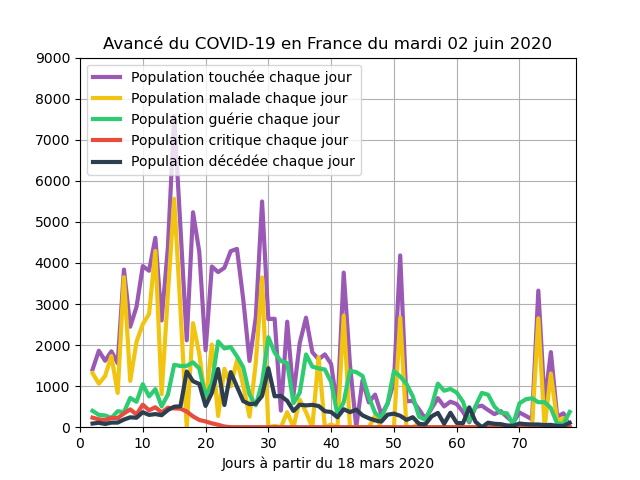
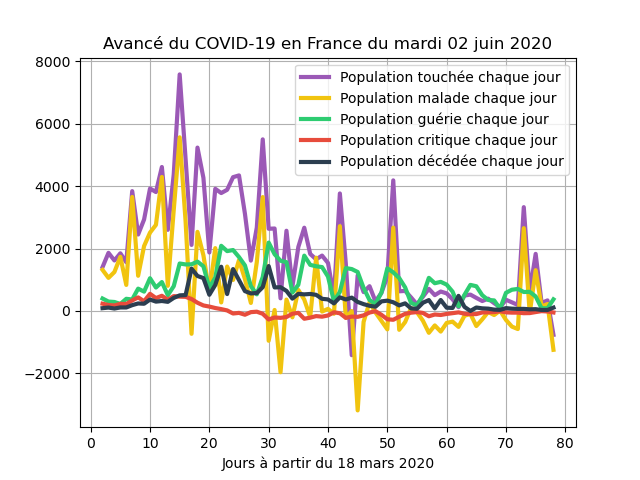
update graph

diff --git a/main.py b/main.py
@@ -44,18 +44,9 @@ def makeTabOfData():
                 tabActiveCases.append(int(row[6].replace(".", "")))
                 tabCritical.append(int(row[7].replace(".", "")))
                 tabNewRecovered.append(int(row[8].replace(".", "")))
-                if (int(row[9].replace(".", "")) < 0):
-                    tabNewActive.append(0)
-                else:
-                    tabNewActive.append(int(row[9].replace(".", "")))
-                if (int(row[10].replace(".", "")) < 0):
-                    tabNewCritical.append(0)
-                else:
-                    tabNewCritical.append(int(row[10].replace(".", "")))
-                if (int(row[2].replace(".", "")) < 0):
-                    tabNewCases.append(0)
-                else:
-                    tabNewCases.append(int(row[2].replace(".", "")))
+                tabNewActive.append(int(row[9].replace(".", "")))   
+                tabNewCritical.append(int(row[10].replace(".", "")))
+                tabNewCases.append(int(row[2].replace(".", "")))
                 tabDate.append(line_count)
             line_count += 1
 
@@ -63,13 +54,12 @@ def makeTabOfData():
 def makeGraph():
 
     # Graphe 1
-    plt.plot(tabDate, tabTotalCases, "-", label="Population touchée", linewidth=3, color="#9b59b6")
+    #plt.plot(tabDate, tabTotalCases, "-", label="Population touchée", linewidth=3, color="#9b59b6")
     plt.plot(tabDate, tabActiveCases, "-", label="Population malade", linewidth=3, color="#f1c40f")
     plt.plot(tabDate, tabTotalRecovered, "-", label="Population guérie", linewidth=3, color="#2ecc71")
     plt.plot(tabDate, tabCritical, "-", label="Population critique", linewidth=3, color="#e74c3c")
     plt.plot(tabDate, tabTotalDeaths, "-", label="Population décédée", linewidth=3, color="#2c3e50")
 
-    plt.axis([0, numberOfDay + 1, 0, ceil((int(cases[0].replace(".", ""))/5000))*5000 + 5000])
     plt.legend(loc='upper left')
     plt.grid(True)
     plt.xlabel('Jours à partir du 17 mars 2020')
@@ -84,9 +74,7 @@ def makeGraph():
     plt.plot(tabDate[1:], tabNewCritical[1:], "-", label="Population critique chaque jour", linewidth=3, color="#e74c3c")
     plt.plot(tabDate[1:], tabNewDeaths[1:], "-", label="Population décédée chaque jour", linewidth=3, color="#2c3e50")
 
-    plt.axis([0, numberOfDay + 1, 0, ceil(max(tabNewCases + tabNewActive + tabNewRecovered + tabNewCritical + tabNewDeaths)/1000)*1000 + 100])
-
-    plt.legend(loc='upper left')
+    plt.legend(loc='best')
     plt.grid(True)
     plt.xlabel('Jours à partir du 18 mars 2020')
     plt.title('Avancé du COVID-19 en France du ' + str(date.today().strftime("%A %d %B %Y")))
